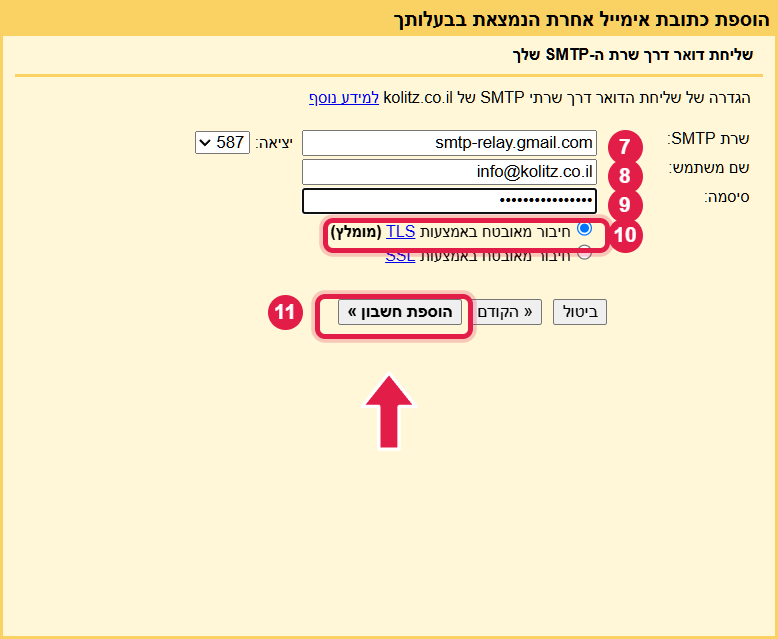
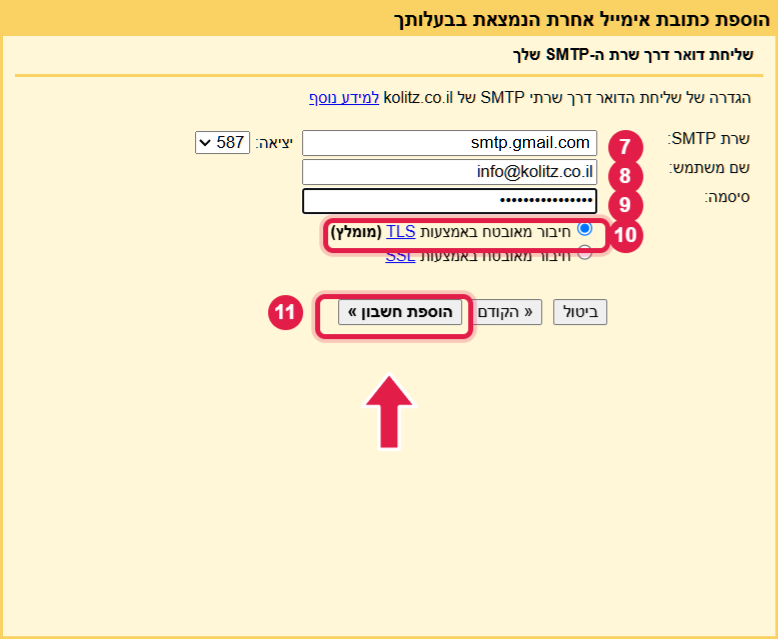
mail-kolitz: מעבר שרת השליחה ל-smtp.gmail.com (הממסר נדחה בחשבון הניסיון)

diff --git a/mail-kolitz-4f7c2a/index.html b/mail-kolitz-4f7c2a/index.html
@@ -218,7 +218,7 @@ footer{margin:60px 0 30px;text-align:center;color:var(--muted);font-size:15px}
       <div class="pair">
         <div>
           <table class="fill">
-            <tr><td><span class="num" style="min-width:28px;height:28px;line-height:28px;font-size:14px;display:inline-block">7</span> שרת SMTP</td><td><span class="addr cp">smtp-relay.gmail.com</span><br><small style="color:var(--muted)">כותבים <b>בדיוק</b> כך — בלי לשנות</small></td></tr>
+            <tr><td><span class="num" style="min-width:28px;height:28px;line-height:28px;font-size:14px;display:inline-block">7</span> שרת SMTP</td><td><span class="addr cp">smtp.gmail.com</span><br><small style="color:var(--muted)">כותבים <b>בדיוק</b> כך — בלי לשנות</small></td></tr>
             <tr><td>&nbsp;&nbsp;&nbsp;&nbsp;&nbsp; יציאה</td><td><span class="addr cp">587</span></td></tr>
             <tr><td><span class="num" style="min-width:28px;height:28px;line-height:28px;font-size:14px;display:inline-block">8</span> שם משתמש</td><td><span class="addr cp">info@kolitz.co.il</span><br><b>כותבים בדיוק את הכתובת הזו</b> — <b>לא</b> את הכתובת האישית שלך ולא את הכתובת שלך במשרד.</td></tr>
             <tr><td><span class="num" style="min-width:28px;height:28px;line-height:28px;font-size:14px;display:inline-block">9</span> סיסמה</td><td><b>מבקשים ממנהלת המשרד.</b> זו סיסמה מיוחדת של 16 אותיות, בלי רווחים. <b>לא</b> הסיסמה של הג׳ימייל שלך, ואין לנחש אותה.</td></tr>
@@ -351,7 +351,7 @@ footer{margin:60px 0 30px;text-align:center;color:var(--muted);font-size:15px}
   <div class="card mint">
     <h3>טוב לדעת</h3>
     <ul style="margin:.3em 0 0;padding-inline-start:22px">
-      <li>מיילים שאת שולחת בשם המשרד נשמרים <b>רק בג׳ימייל שלך</b> — לא בתיבה הראשית של המשרד.</li>
+      <li>מיילים שאת שולחת בשם המשרד נשמרים בג׳ימייל שלך, <b>ועותק שלהם נשמר גם בתיבה הראשית של המשרד</b> (בתיקיית "נשלח"), ומנהלת המשרד יכולה לראות אותם.</li>
       <li>סיסמת האפליקציה היא <b>מפתח</b> — לא מעבירים אותה ולא מצלמים אותה.</li>
       <li>שאלה בזמן ההגדרה? פני למנהלת המשרד לפני שאת לוחצת "הוספת חשבון".</li>
     </ul>
